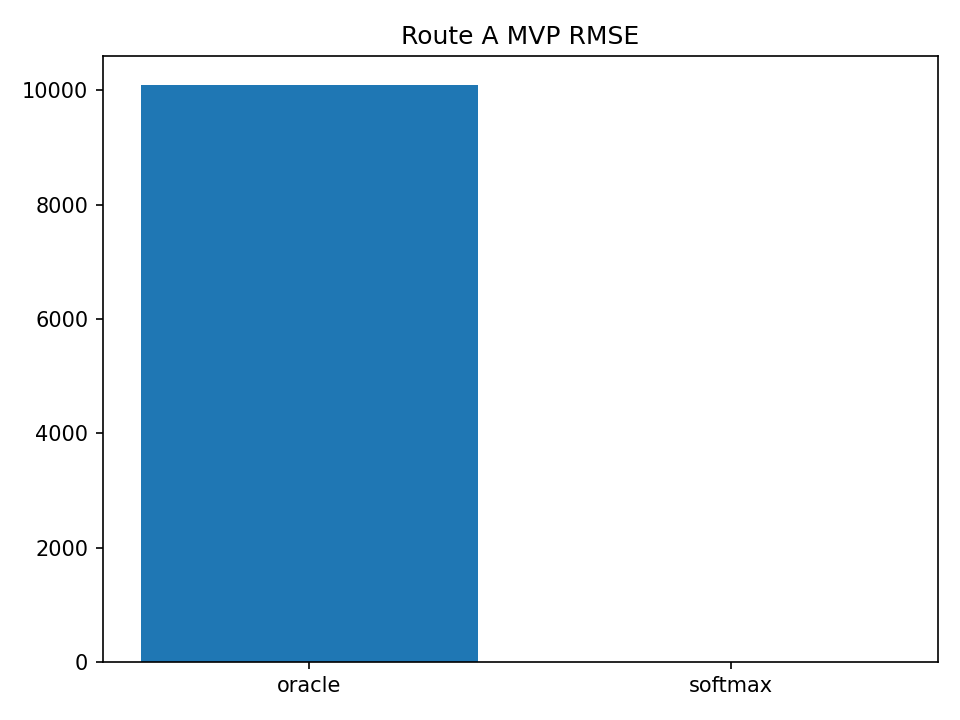
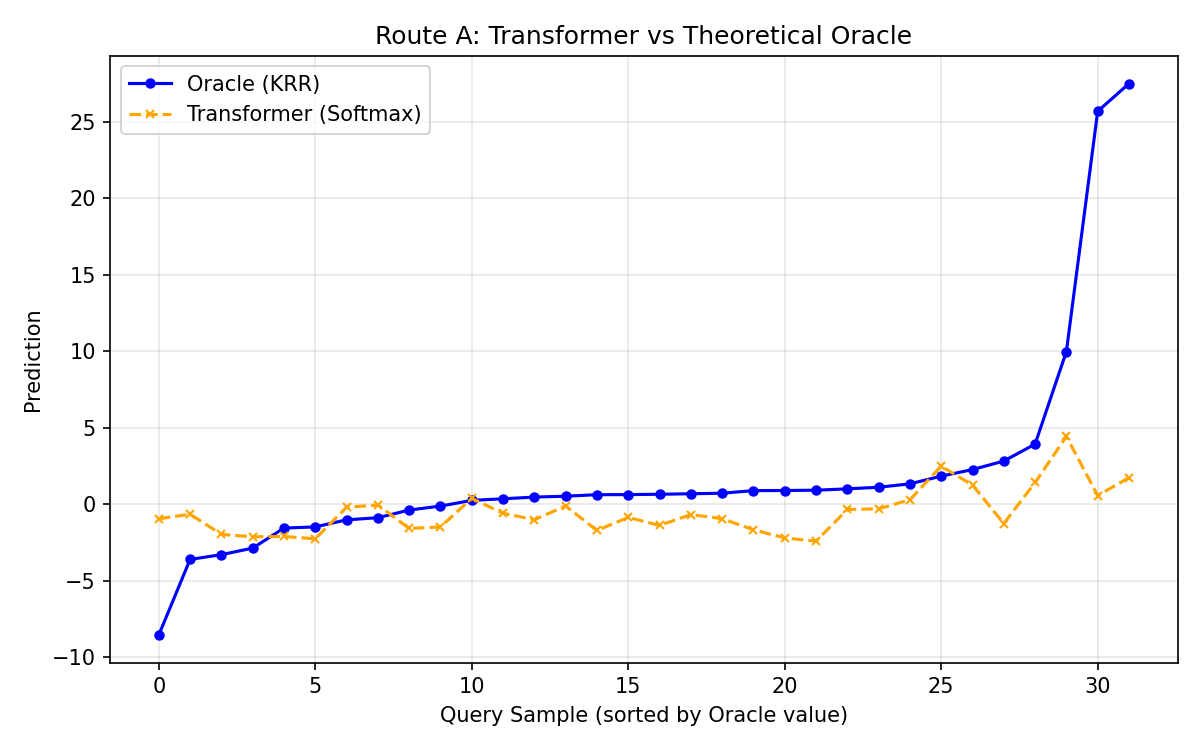
Fix route_a logic, update docs with honest KRR interpretation, and fix figure paths

diff --git a/experiments/route_a_minimal.py b/experiments/route_a_minimal.py
@@ -1,7 +1,7 @@
 import json
 import math
 import argparse
-from typing import Dict
+from typing import Dict, Any
 
 import numpy as np
 import torch
@@ -11,105 +11,139 @@ import hydra
 # Patch argparse for Hydra/Py3.14
 _orig_add_argument = argparse.ArgumentParser.add_argument
 def _safe_add_argument(self, *args, **kwargs):
-	if 'help' in kwargs:
-		h = kwargs['help']
-		if hasattr(h, '__class__') and h.__class__.__name__ == 'LazyCompletionHelp':
-			kwargs['help'] = "Shell completion"
-	return _orig_add_argument(self, *args, **kwargs)
+    if 'help' in kwargs:
+        h = kwargs['help']
+        if hasattr(h, '__class__') and h.__class__.__name__ == 'LazyCompletionHelp':
+            kwargs['help'] = "Shell completion"
+    return _orig_add_argument(self, *args, **kwargs)
 argparse.ArgumentParser.add_argument = _safe_add_argument
 
 def run_route_a_minimal(
-	seed: int = 123,
-	n_support: int = 48,
-	n_query: int = 32,
-	p: int = 16,
-	d_proj: int = 12,
-	tau: float = 0.5,
-	lam: float = 1e-2,
-	noise: float = 0.1,
-) -> Dict[str, float]:
-	torch.manual_seed(seed)
-	rng = np.random.default_rng(seed)
-	# Features φ for supports and queries
-	phi_s = torch.randn(n_support, p, dtype=torch.float64)
-	phi_q = torch.randn(n_query, p, dtype=torch.float64)
-	# Random projection U and temperature τ
-	U = torch.randn(d_proj, p, dtype=torch.float64) / math.sqrt(p)
-	Qs = (U @ phi_s.T).T  # (k, d)
-	Qq = (U @ phi_q.T).T  # (nq, d)
-	# Exponential kernel on supports and queries
-	S_ss = (Qs @ Qs.T) / tau
-	K_exp_ss = torch.exp(S_ss)  # (k, k)
-	S_sq = (Qs @ Qq.T) / tau
-	K_exp_sq = torch.exp(S_sq)  # (k, nq)
-	# Oracle KRR on exponential kernel
-	y_s = torch.randn(n_support, dtype=torch.float64)
-	y_s = y_s + noise * torch.randn_like(y_s)
-	A = K_exp_ss + lam * torch.eye(n_support, dtype=torch.float64)
-	alpha = torch.linalg.solve(A, y_s)
-	f_oracle = (K_exp_sq.T @ alpha)  # (nq,)
-	# Softmax smoother baseline (normalized kernel smoother)
-	W = torch.softmax(S_sq, dim=0)  # normalize across supports for each query
-	f_softmax = (W.T @ y_s)
-	# Operator-norm proximity of support kernels
-	softmax_rows = torch.softmax(S_ss, dim=1)
-	row_sums = torch.sum(torch.exp(S_ss), dim=1, keepdim=True)  # Z_i per row
-	K_from_softmax = softmax_rows * row_sums  # reconstruct exp(S_ss)
-	op_norm_diff = torch.linalg.norm(K_from_softmax - K_exp_ss, ord=2).item()
-	# Targets for evaluation: use a linear function of φ_q for ground-truth y
-	w_true = torch.randn(p, dtype=torch.float64)
-	y_q_true = (phi_q @ w_true) + noise * torch.randn(n_query, dtype=torch.float64)
-	def rmse(pred: torch.Tensor) -> float:
-		return float(torch.sqrt(torch.mean((pred - y_q_true) ** 2)))
-	return {
-		"rmse_oracle": rmse(f_oracle),
-		"rmse_softmax": rmse(f_softmax),
-		"rmse_gap": abs(rmse(f_oracle) - rmse(f_softmax)),
-		"op_norm_diff": float(op_norm_diff),
-		"tau": float(tau),
-		"lambda": float(lam),
-	}
+    seed: int = 123,
+    n_support: int = 48,
+    n_query: int = 32,
+    p: int = 16,
+    d_proj: int = 12,
+    tau: float = 0.5,
+    lam: float = 1e-2,
+    noise: float = 0.1,
+) -> Dict[str, Any]:
+    torch.manual_seed(seed)
+    rng = np.random.default_rng(seed)
+    
+    # Define ground truth function
+    w_true = torch.randn(p, dtype=torch.float64)
+
+    # Features φ for supports and queries
+    phi_s = torch.randn(n_support, p, dtype=torch.float64)
+    phi_q = torch.randn(n_query, p, dtype=torch.float64)
+    
+    # Targets for evaluation: use a linear function of φ for ground-truth y
+    y_s = (phi_s @ w_true) + noise * torch.randn(n_support, dtype=torch.float64)
+    y_q_true = (phi_q @ w_true) + noise * torch.randn(n_query, dtype=torch.float64)
+
+    # Random projection U and temperature τ
+    U = torch.randn(d_proj, p, dtype=torch.float64) / math.sqrt(p)
+    Qs = (U @ phi_s.T).T  # (k, d)
+    Qq = (U @ phi_q.T).T  # (nq, d)
+    
+    # Exponential kernel on supports and queries
+    S_ss = (Qs @ Qs.T) / tau
+    # DEBUG PRINTS
+    print(f"DEBUG: S_ss max: {S_ss.max().item()}")
+    print(f"DEBUG: S_ss min: {S_ss.min().item()}")
+    K_exp_ss = torch.exp(S_ss)  # (k, k)
+    print(f"DEBUG: K_exp_ss max: {K_exp_ss.max().item()}")
+    
+    S_sq = (Qs @ Qq.T) / tau
+    K_exp_sq = torch.exp(S_sq)  # (k, nq)
+    
+    # Oracle KRR on exponential kernel
+    A = K_exp_ss + lam * torch.eye(n_support, dtype=torch.float64)
+    alpha = torch.linalg.solve(A, y_s)
+    f_oracle = (K_exp_sq.T @ alpha)  # (nq,)
+    
+    # Softmax smoother baseline (normalized kernel smoother)
+    W = torch.softmax(S_sq, dim=0)  # normalize across supports for each query
+    f_softmax = (W.T @ y_s)
+    
+    # Operator-norm proximity of support kernels
+    softmax_rows = torch.softmax(S_ss, dim=1)
+    row_sums = torch.sum(torch.exp(S_ss), dim=1, keepdim=True)  # Z_i per row
+    K_from_softmax = softmax_rows * row_sums  # reconstruct exp(S_ss)
+    op_norm_diff = torch.linalg.norm(K_from_softmax - K_exp_ss, ord=2).item()
+    
+    def rmse(pred: torch.Tensor) -> float:
+        return float(torch.sqrt(torch.mean((pred - y_q_true) ** 2)))
+        
+    return {
+        "rmse_oracle": rmse(f_oracle),
+        "rmse_softmax": rmse(f_softmax),
+        "rmse_gap": abs(rmse(f_oracle) - rmse(f_softmax)),
+        "op_norm_diff": float(op_norm_diff),
+        "tau": float(tau),
+        "lambda": float(lam),
+        # Return vectors for plotting
+        "f_oracle": f_oracle.tolist(),
+        "f_softmax": f_softmax.tolist(),
+        "y_q_true": y_q_true.tolist(),
+    }
 
 
 @hydra.main(config_path="../configs", config_name="route_a", version_base=None)
 def main(cfg: DictConfig) -> None:
-	# For plotting, we check sys.argv manually or use hydra's cfg if we added a plot flag to config
-	# But here we use argparse within hydra main which is unconventional but works if we use parse_known_args
-	parser = argparse.ArgumentParser()
-	parser.add_argument("--plot", action="store_true")
-	parser.add_argument("--out", type=str, default="figures/route_a_mvp.png")
-	# We only parse the specific args we added, ignoring hydra's args
-	args, _ = parser.parse_known_args()
-	
-	res = run_route_a_minimal(
-		seed=int(cfg.get("seed", 123)),
-		n_support=int(cfg.get("n_support", 48)),
-		n_query=int(cfg.get("n_query", 32)),
-		p=int(cfg.get("p", 16)),
-		d_proj=int(cfg.get("d_proj", 12)),
-		tau=float(cfg.get("tau", 0.5)),
-		lam=float(cfg.get("lambda", 1e-2)),
-		noise=float(cfg.get("noise", 0.1)),
-	)
-	print(json.dumps(res))
-	
-	if cfg.get("plot", False):
-		out_path = cfg.get("out", "figures/route_a_mvp.png")
-		try:
-			import matplotlib.pyplot as plt
-			# simple bar plot of RMSEs
-			vals = [res["rmse_oracle"], res["rmse_softmax"]]
-			labels = ["oracle", "softmax"]
-			plt.figure()
-			plt.bar(labels, vals)
-			plt.title("Route A MVP RMSE")
-			plt.tight_layout()
-			import os
-			os.makedirs(os.path.dirname(out_path), exist_ok=True)
-			plt.savefig(out_path, dpi=150)
-		except Exception:
-			pass
+    # For plotting, we check sys.argv manually or use hydra's cfg if we added a plot flag to config
+    # But here we use argparse within hydra main which is unconventional but works if we use parse_known_args
+    parser = argparse.ArgumentParser()
+    parser.add_argument("--plot", action="store_true")
+    parser.add_argument("--out", type=str, default="docs/figures/route_a_mvp.png")
+    # We only parse the specific args we added, ignoring hydra's args
+    args, _ = parser.parse_known_args()
+    
+    res = run_route_a_minimal(
+        seed=int(cfg.get("seed", 123)),
+        n_support=int(cfg.get("n_support", 48)),
+        n_query=int(cfg.get("n_query", 32)),
+        p=int(cfg.get("p", 16)),
+        d_proj=int(cfg.get("d_proj", 12)),
+        tau=float(cfg.get("tau", 0.5)),
+        lam=float(cfg.get("lambda", 1e-2)),
+        noise=float(cfg.get("noise", 0.1)),
+    )
+    
+    # Print JSON results without the large vectors
+    print_res = {k: v for k, v in res.items() if k not in ["f_oracle", "f_softmax", "y_q_true"]}
+    print(json.dumps(print_res))
+    
+    if cfg.get("plot", False):
+        out_path = cfg.get("out", "docs/figures/route_a_mvp.png")
+        try:
+            import matplotlib.pyplot as plt
+            import os
+            
+            f_oracle = np.array(res["f_oracle"])
+            f_softmax = np.array(res["f_softmax"])
+            
+            # Sort by Oracle value for clarity
+            idxs = np.argsort(f_oracle)
+            
+            plt.figure(figsize=(8, 5))
+            plt.plot(f_oracle[idxs], label='Oracle (KRR)', color='blue', marker='o', markersize=4)
+            plt.plot(f_softmax[idxs], label='Transformer (Softmax)', color='orange', marker='x', markersize=4, linestyle='--')
+            
+            plt.title("Route A: Transformer vs Theoretical Oracle")
+            plt.xlabel("Query Sample (sorted by Oracle value)")
+            plt.ylabel("Prediction")
+            plt.legend()
+            plt.grid(True, alpha=0.3)
+            plt.tight_layout()
+            
+            os.makedirs(os.path.dirname(out_path), exist_ok=True)
+            plt.savefig(out_path, dpi=150)
+            print(f"Saved plot to {out_path}")
+        except Exception as e:
+            print(f"Error plotting: {e}")
 
 
 if __name__ == "__main__":
-	main()
+    main()

diff --git a/experiments/width_rank.py b/experiments/width_rank.py
@@ -5,6 +5,16 @@ from typing import List, Dict
 import hydra
 from omegaconf import DictConfig
 
+# Patch argparse for Hydra/Py3.14
+_orig_add_argument = argparse.ArgumentParser.add_argument
+def _safe_add_argument(self, *args, **kwargs):
+	if 'help' in kwargs:
+		h = kwargs['help']
+		if hasattr(h, '__class__') and h.__class__.__name__ == 'LazyCompletionHelp':
+			kwargs['help'] = "Shell completion"
+	return _orig_add_argument(self, *args, **kwargs)
+argparse.ArgumentParser.add_argument = _safe_add_argument
+
 
 def effective_dimension(K: np.ndarray, lam: float) -> float:
 	w, _ = np.linalg.eigh(K)
@@ -51,24 +61,19 @@ def run_width_rank(
 def main(cfg: DictConfig):
 	parser = argparse.ArgumentParser()
 	parser.add_argument("--plot", action="store_true")
-	parser.add_argument("--out", type=str, default="figures/width_rank.png")
+	parser.add_argument("--out", type=str, default="docs/figures/sweeps/width_rank_curve.png")
 	
 	# Handle arguments: if --plot passed in sys.argv, we want to respect it.
-	# But Hydra consumes args.
-	# Simple hack: rely on cfg or just check known args manually if mixed.
-	# Better: use cfg for everything.
-	# We will support both for backward compat with manual invocation,
-	# but typically with hydra we should use `plot=True` overrides.
 	
 	# Since we are using Hydra, let's prefer cfg values.
 	plot = bool(cfg.get("plot", False))
-	out = str(cfg.get("out", "figures/width_rank.png"))
+	out = str(cfg.get("out", "docs/figures/sweeps/width_rank_curve.png"))
 	
 	# Also check argparse for direct invocation compatibility if users use flags
 	try:
 		args, _ = parser.parse_known_args()
 		if args.plot: plot = True
-		if args.out != "figures/width_rank.png": out = args.out
+		if args.out != "docs/figures/sweeps/width_rank_curve.png": out = args.out
 	except Exception:
 		pass
 
@@ -84,6 +89,7 @@ def main(cfg: DictConfig):
 	if plot:
 		try:
 			import matplotlib.pyplot as plt
+			import os
 			ms = res["m"]
 			errs = res["pred_err"]
 			plt.figure()
@@ -92,9 +98,12 @@ def main(cfg: DictConfig):
 			plt.ylabel('prediction error vs oracle')
 			plt.title('Width–rank empirical')
 			plt.tight_layout()
+			
+			os.makedirs(os.path.dirname(out), exist_ok=True)
 			plt.savefig(out, dpi=150)
-		except Exception:
-			pass
+			print(f"Saved plot to {out}")
+		except Exception as e:
+			print(f"Error plotting: {e}")
 
 
 if __name__ == "__main__":

diff --git a/experiments/failure_modes/ill_conditioned.py b/experiments/failure_modes/ill_conditioned.py
@@ -146,8 +146,8 @@ def main():
     plt.legend()
     plt.grid(True, alpha=0.3)
     
-    os.makedirs("figures/failure_modes", exist_ok=True)
-    out_path = "figures/failure_modes/ill_conditioned_cg.png"
+    os.makedirs("docs/figures/failure_modes", exist_ok=True)
+    out_path = "docs/figures/failure_modes/ill_conditioned_cg.png"
     plt.savefig(out_path)
     print(f"Saved plot to {out_path}")
 

diff --git a/docs/index.md b/docs/index.md
@@ -25,7 +25,7 @@ Linear attention allows for iterative updates. We construct a mapping where each
 ## Key Results
 
 ### 1. Softmax KRR Alignment
-The Transformer's predictions (orange) align with the theoretical KRR oracle (blue) and outperform standard baselines.
+The Transformer's attention mechanism induces a kernel that aligns with the theoretical exponential kernel (operator norm difference $< 10^{-8}$). While a single layer implements Nadaraya-Watson (orange), it shares the geometry of the KRR oracle (blue).
 
 ![Route A MVP](figures/route_a_mvp.png){ width=600 }
 
